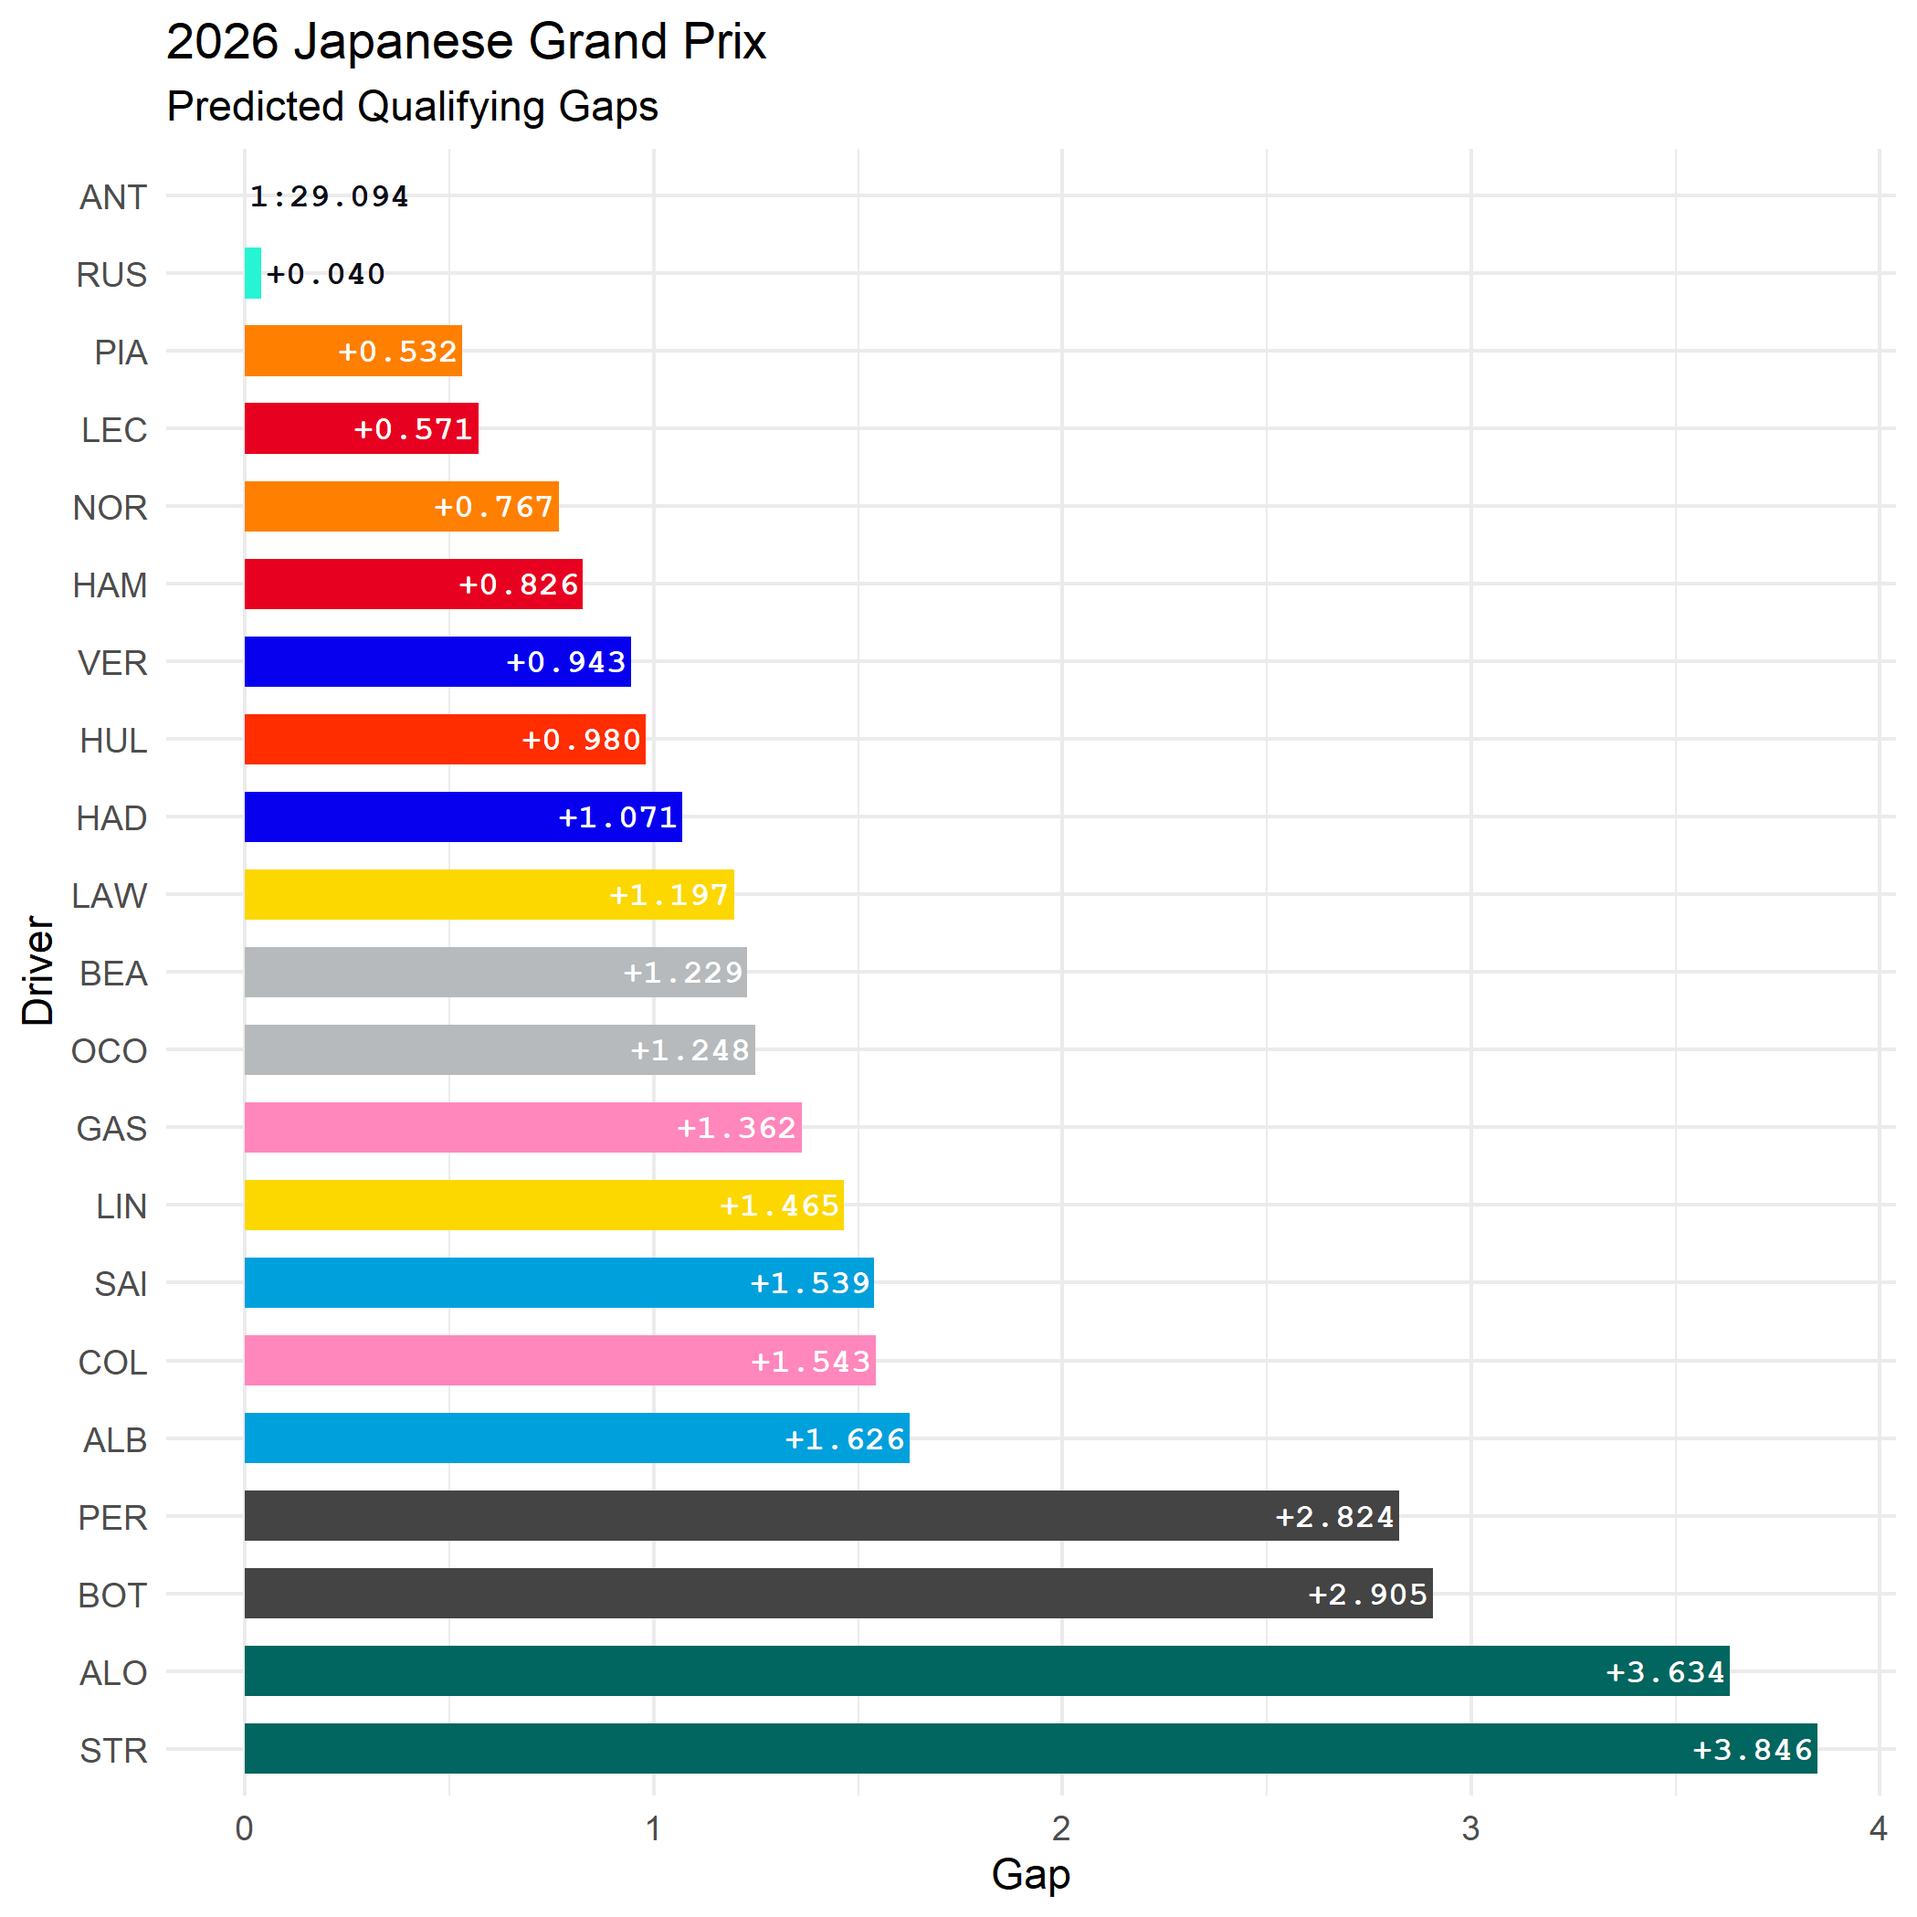
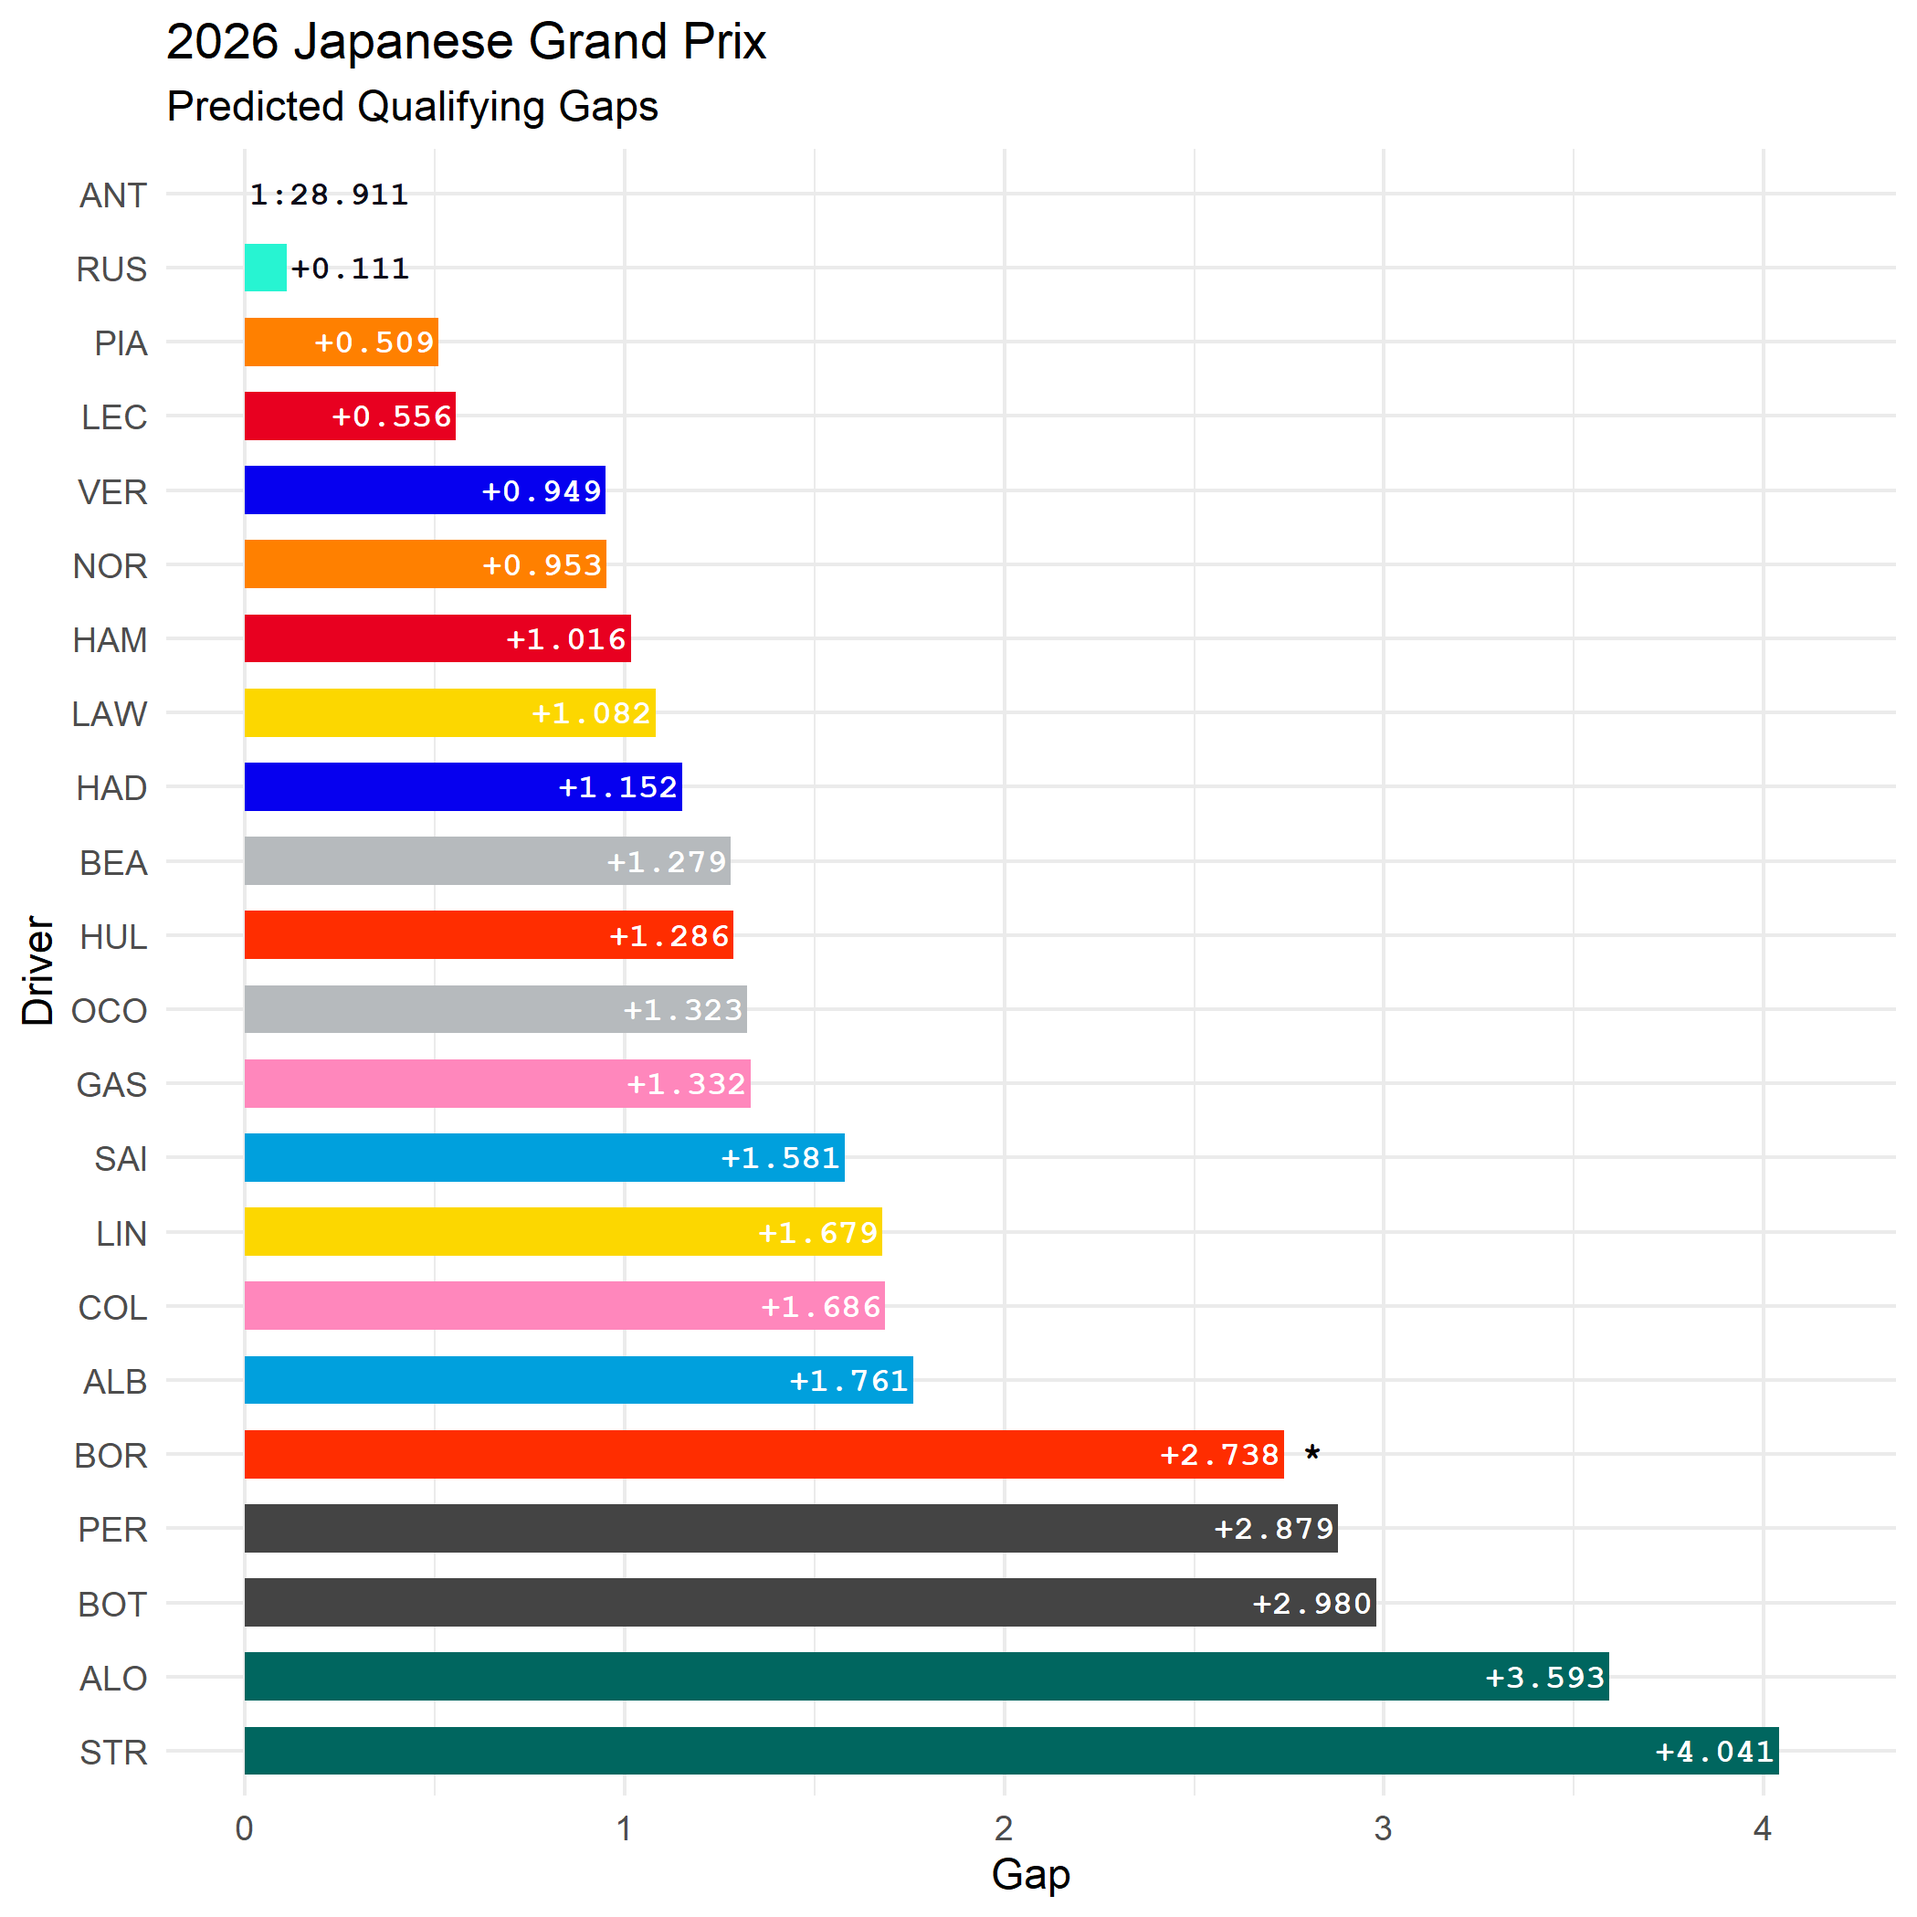
update confidence scoring

diff --git a/README.md b/README.md
@@ -11,6 +11,7 @@ Uses free practice session lap times to generate a **probabilistic forecast of q
 - The model accounts for track evolution across the elapsed session time term.
 - Random intercepts are nested by constructor and driver, allowing the model to share statistical strength across the field, while still estimating individual driver pace offsets.
 - The posterior predictive distribution over each driver's lap time is used to generate the quailfying gap forecasts.
+- Low confidence predictions (i.e. not enough available data) are indicated by an asterisk.
 
 ## Getting started
 
